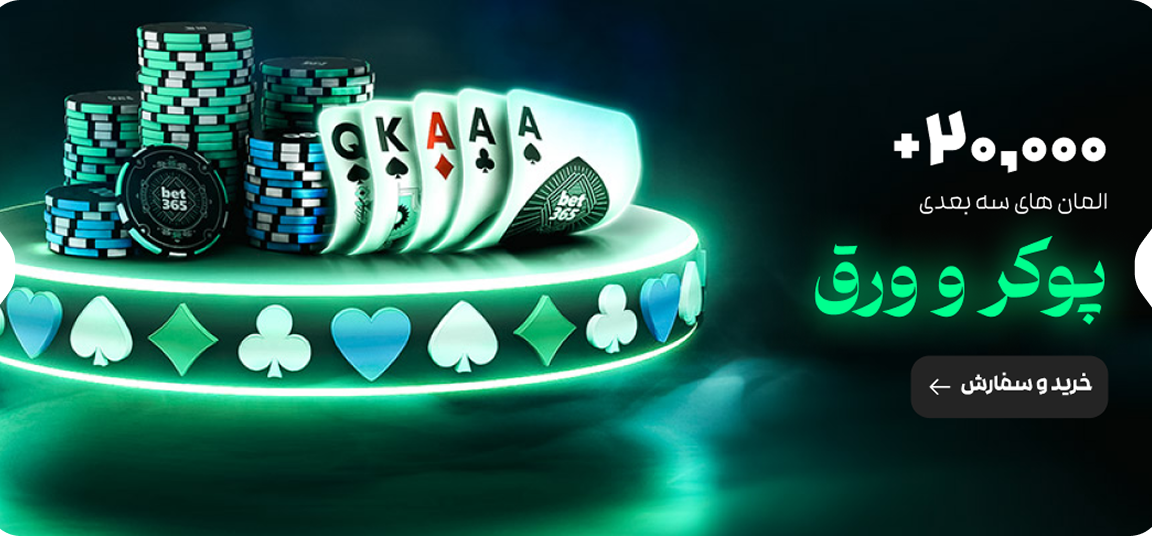
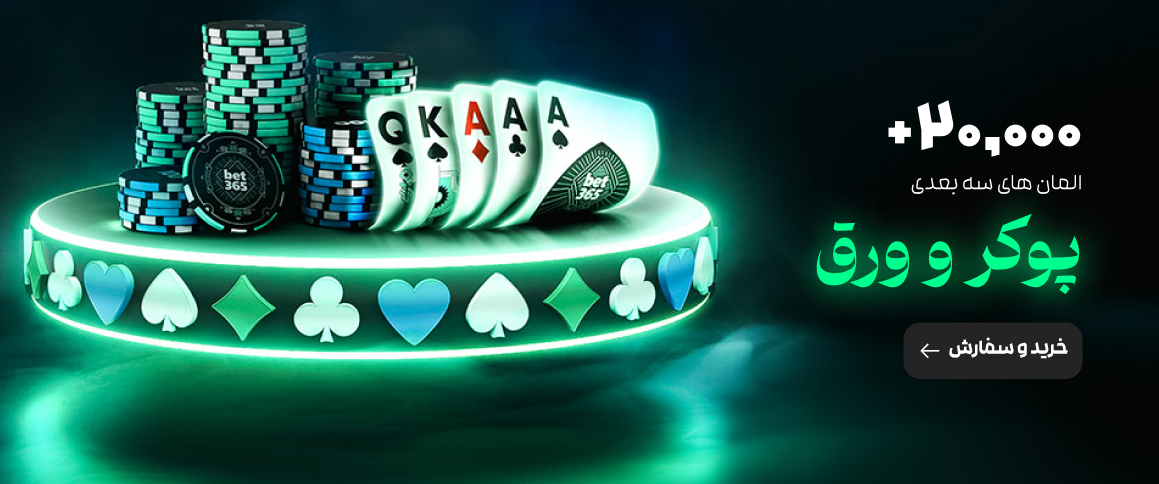
commit #fix main slider

diff --git a/css/style.css b/css/style.css
@@ -49,7 +49,7 @@ button {
 .toggle_menu-open {
   display: none;
 }
-.toggle_menu-close{
+.toggle_menu-close {
   display: none;
 }
 .top-header ul {
@@ -502,8 +502,56 @@ img {
   -ms-border-radius: 16px;
   -o-border-radius: 16px;
 }
+.main-swiper::after {
+  position: absolute;
+  content: "";
+  top: 47%;
+  right: -19px;
+  transform: translate(-50%, -50%);
+  height: 28px;
+  width: 65px;
+  border-radius: 150px 150px 0 0;
+  background-color: #fff;
+  z-index: 9999;
+  transform: rotate(-90deg);
+  -webkit-transform: rotate(-90deg);
+  -moz-transform: rotate(-90deg);
+  -ms-transform: rotate(-90deg);
+  -o-transform: rotate(-90deg);
+}
+.main-swiper::before {
+  position: absolute;
+  content: "";
+  top: 47%;
+  left: -19px;
+  transform: translate(-50%, -50%);
+  height: 28px;
+  width: 65px;
+  border-radius: 150px 150px 0 0;
+  background-color: #fff;
+  z-index: 99;
+  transform: rotate(90deg);
+  -webkit-transform: rotate(90deg);
+  -moz-transform: rotate(90deg);
+  -ms-transform: rotate(90deg);
+  -o-transform: rotate(90deg);
+}
 .main-swiper .swiper-slide img {
   image-rendering: optimizeSpeed;
+}
+.main-swiper .swiper-button-prev {
+  z-index: 99999;
+  right: -5px !important;
+}
+.main-swiper .swiper-button-next {
+  z-index: 99999;
+  left: -5px !important;
+}
+.main-swiper .swiper-button-next::after,
+.main-swiper .swiper-button-prev::after {
+  color: rgba(121, 121, 121, 1);
+  font-size: 1.5rem;
+  z-index: 9999999;
 }
 .main-swiper .pagination-box {
   width: 100%;
@@ -511,7 +559,7 @@ img {
   justify-content: center;
   position: absolute;
   bottom: 1rem;
-  z-index: 99999;
+  z-index: 999;
 }
 .swiper-main-pagination {
   max-width: 100px;
@@ -714,13 +762,13 @@ img {
 }
 .scroll-item .item .img {
   margin-left: 5px;
-  width:25px;
+  width: 25px;
   height: 25px;
   display: flex;
   justify-content: center;
   align-items: center;
 }
-.scrool-item .item .img img.active{
+.scrool-item .item .img img.active {
   background: #f9933b;
   width: 25px;
   height: 25px;

diff --git a/js/slider.js b/js/slider.js
@@ -12,13 +12,13 @@ var mainSwiper = new Swiper(".main-swiper", {
     clickable: true,
   },
   navigation: {
-    nextEl: ".swiper-main-button-next",
-    prevEl: ".swiper-main-button-prev",
+    nextEl: ".swiper-button-next",
+    prevEl: ".swiper-button-prev",
   },
 });
 
 var swiper = new Swiper(".mySwiper", {
-  slidesPerView: 4,
+  slidesPerView: 6,
   autoplay: {
     delay: 2500,
     disableOnInteraction: false,
